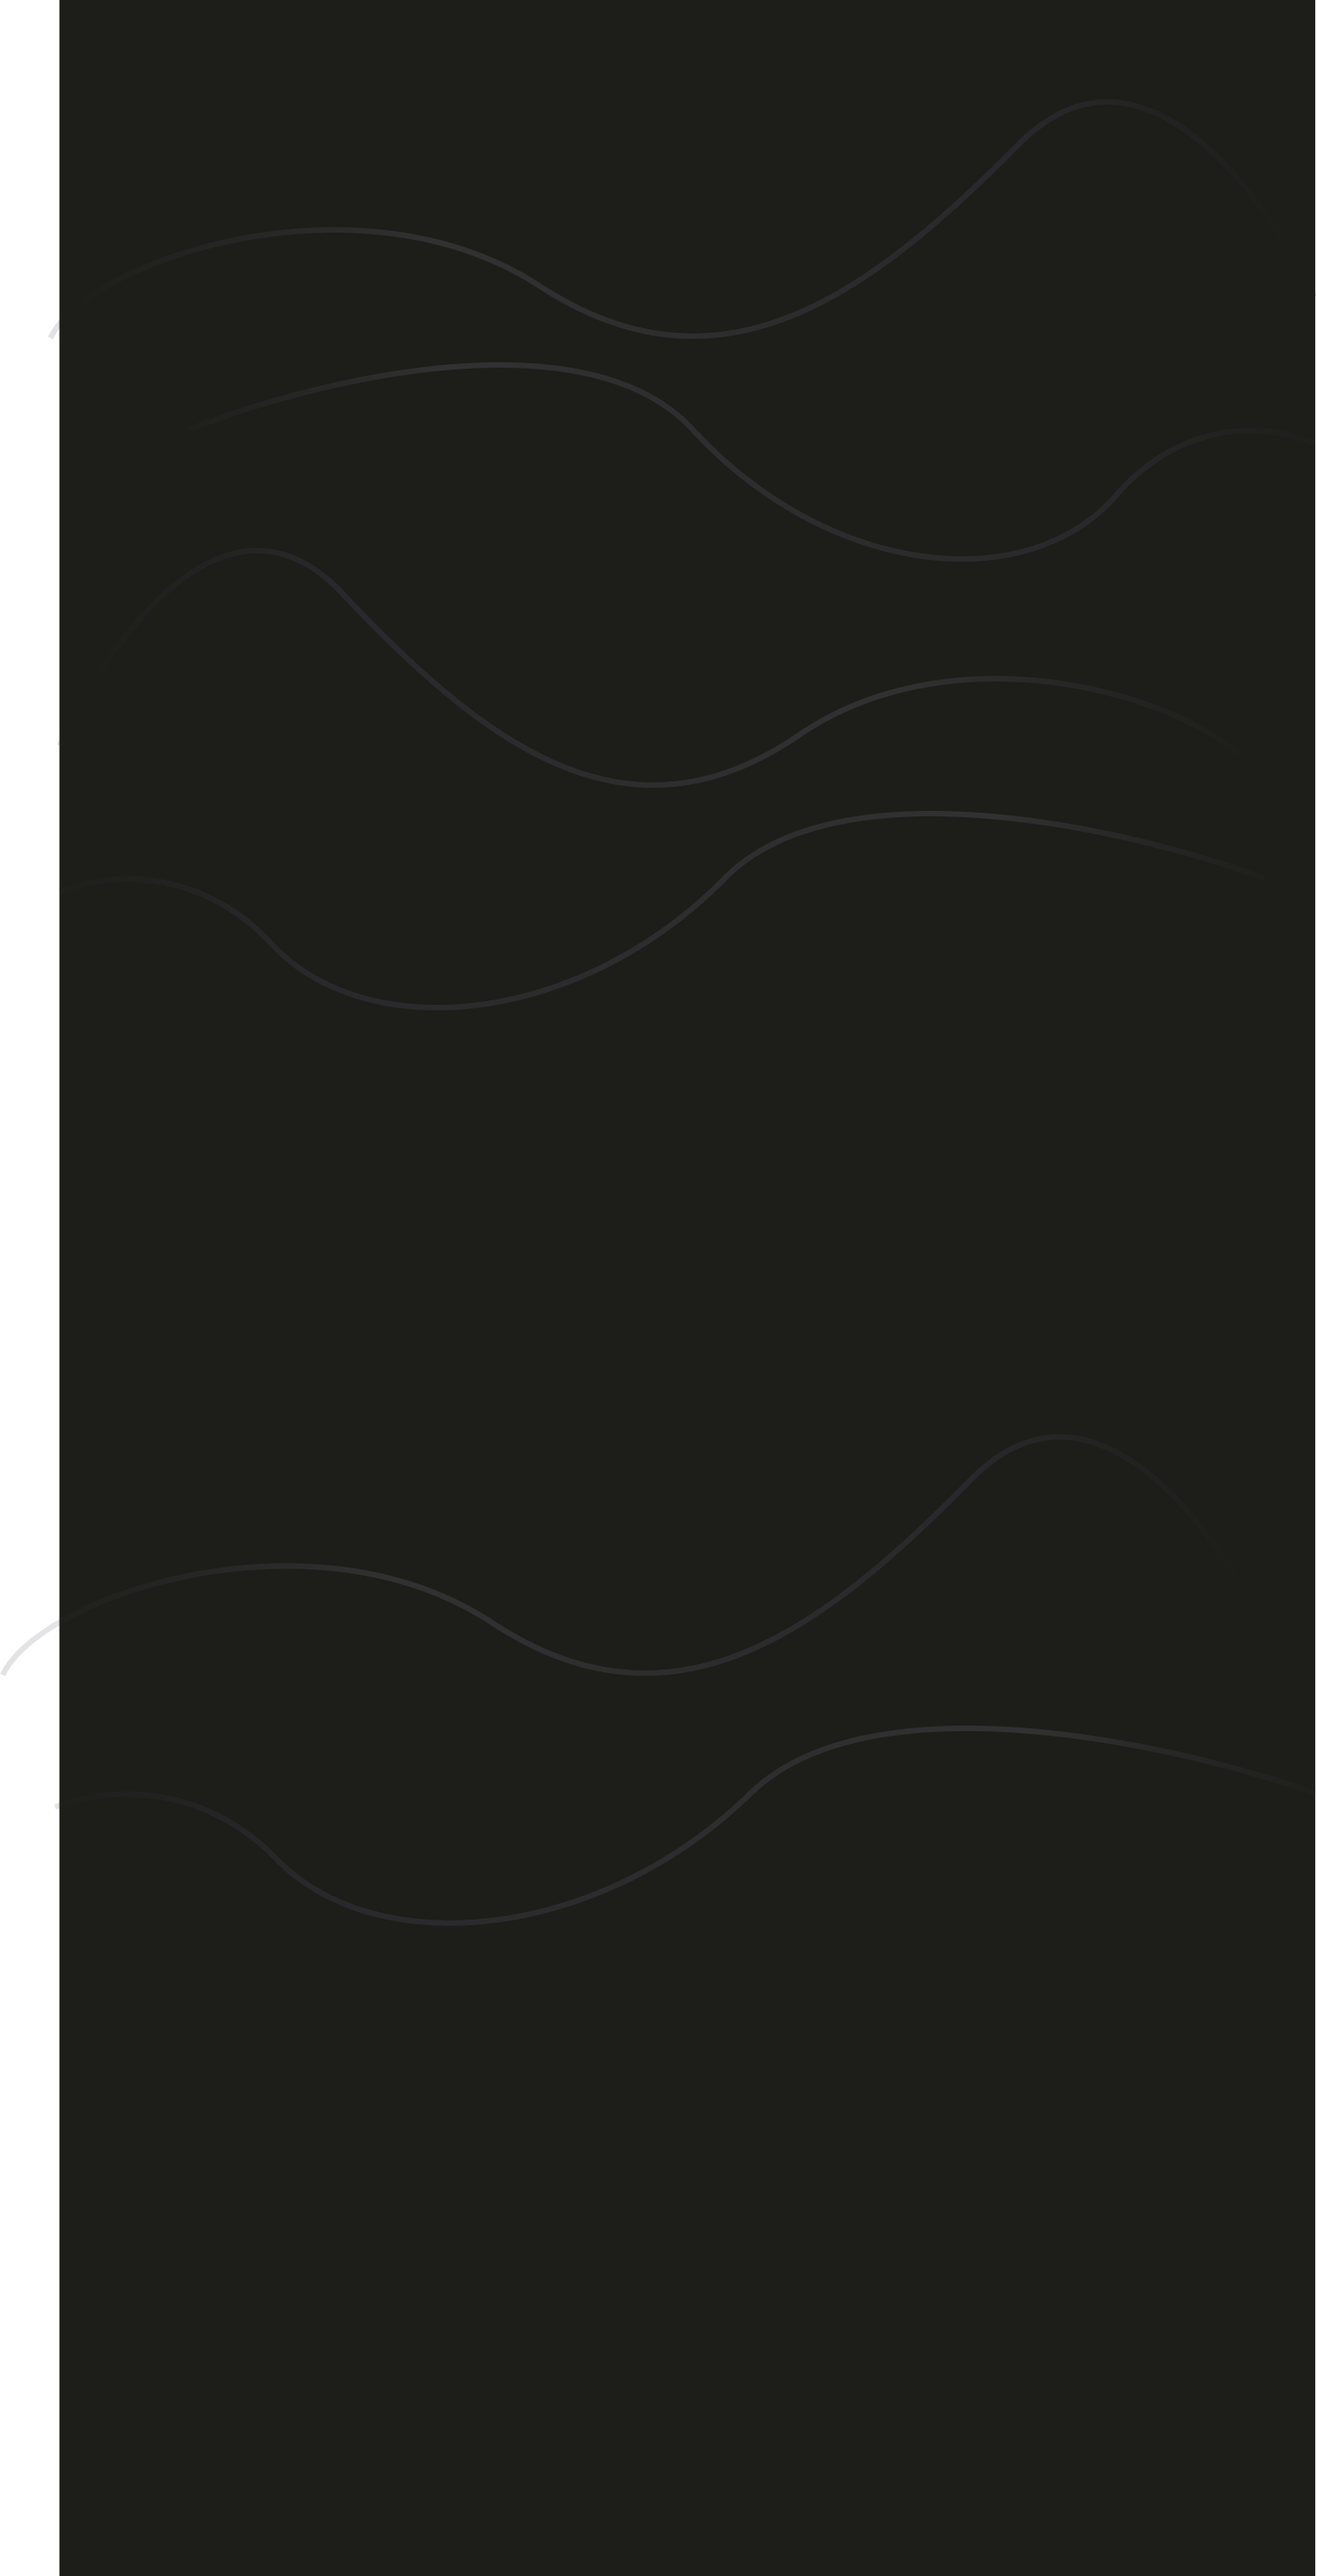
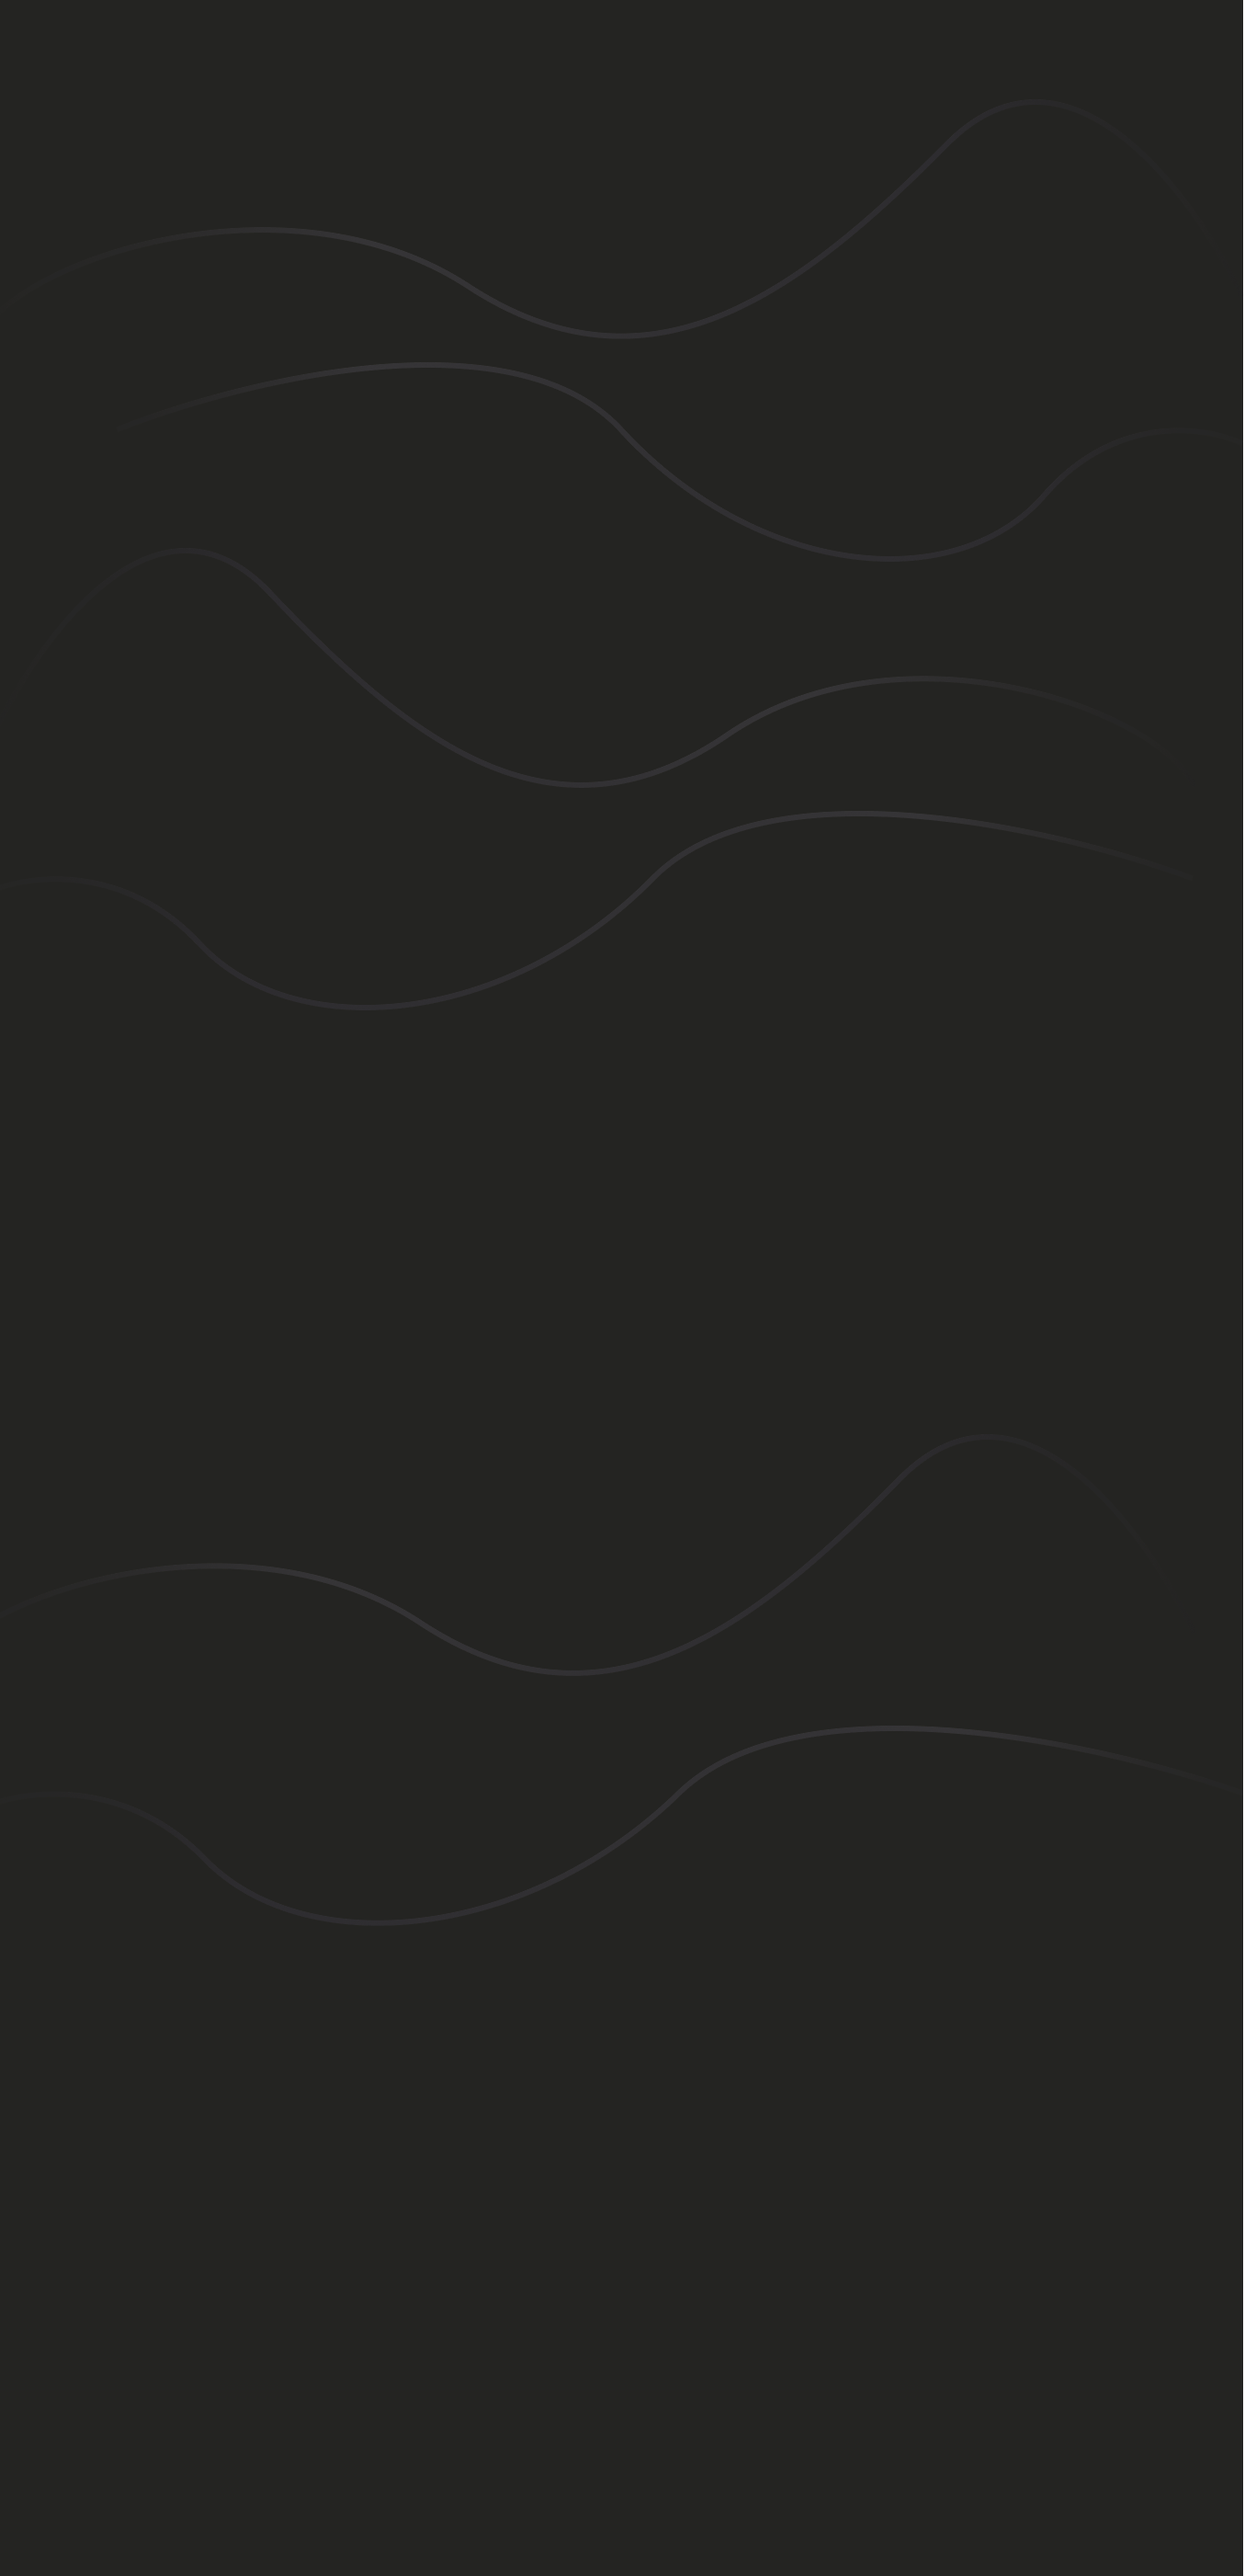
ajuste tela home

Changed region(s): [[0.0, 0.0, 0.062, 1.0], [0.4339, 0.1242, 0.4649, 0.1552]]

diff --git a/site institucional individual/style_home.css b/site institucional individual/style_home.css
@@ -21,6 +21,7 @@ body {
     background-size: cover;
     background-repeat: no-repeat;
     display: block;
+
 }
 
 .macha {
@@ -124,11 +125,18 @@ body {
     display: flex;
     background-repeat: no-repeat;
     background-size: cover;
-    height: 145vh;
+    height: 100%;
     width: 100%;
     top:1050px;
     margin: 0;
     padding-right: 100px;
+    z-index: 0;
 
+  }
+  .linha_amarela{
+    background-image: url("./assets/Vector\ 28.png");
+    display: flex;
+    position: relative;
+    justify-content: center;
 
-  } 
+  }

diff --git a/site institucional individual/telahome.html b/site institucional individual/telahome.html
@@ -10,7 +10,7 @@
 
 <body>
 
-  <div class="body">
+  <!-- <div class="body">
     <div class="hamburger-menu">
       <input id="menu__toggle" type="checkbox" />
       <label class="menu__btn" for="menu__toggle">
@@ -27,7 +27,7 @@
       <div class="logo"></div>
 
     </div>
-  </div>
+  </div> -->
 
   <div class="fundo">
 
@@ -38,7 +38,10 @@
 
   </div>
 
-  <div class="fundo2"></div>
+  <div class="fundo2">
+    <div class="linha_amarela"></div>
+
+  </div>
 
 
 </body>

diff --git a/site institucional individual/style_login.css b/site institucional individual/style_login.css
@@ -41,17 +41,17 @@ body{
     color: white;
     font-size: 20px;
  }
- #input_email::placeholder {
+ .input_email::placeholder {
   text-align: center;
   font-family: "Urbanist", sans-serif;
   color: white;
 }
-#input_senha::placeholder {
+.input_senha::placeholder {
   text-align: center;
   font-family: "Urbanist", sans-serif;
   color: white;
 }
-#input_senha{
+.input_senha{
   font-size: 20px;
 }
 

diff --git a/site institucional individual/telalogin.html b/site institucional individual/telalogin.html
@@ -40,7 +40,7 @@
 
     <div class="inputs">
 
-        <input id="input_email" placeholder="Email:"><br>
+        <input class="input_email" placeholder="Email:"><br>
         <input class="input_senha" type="password" placeholder="Senha:"><br>
         <button onclick="" class="botao">Entrar</button><br> 
 
